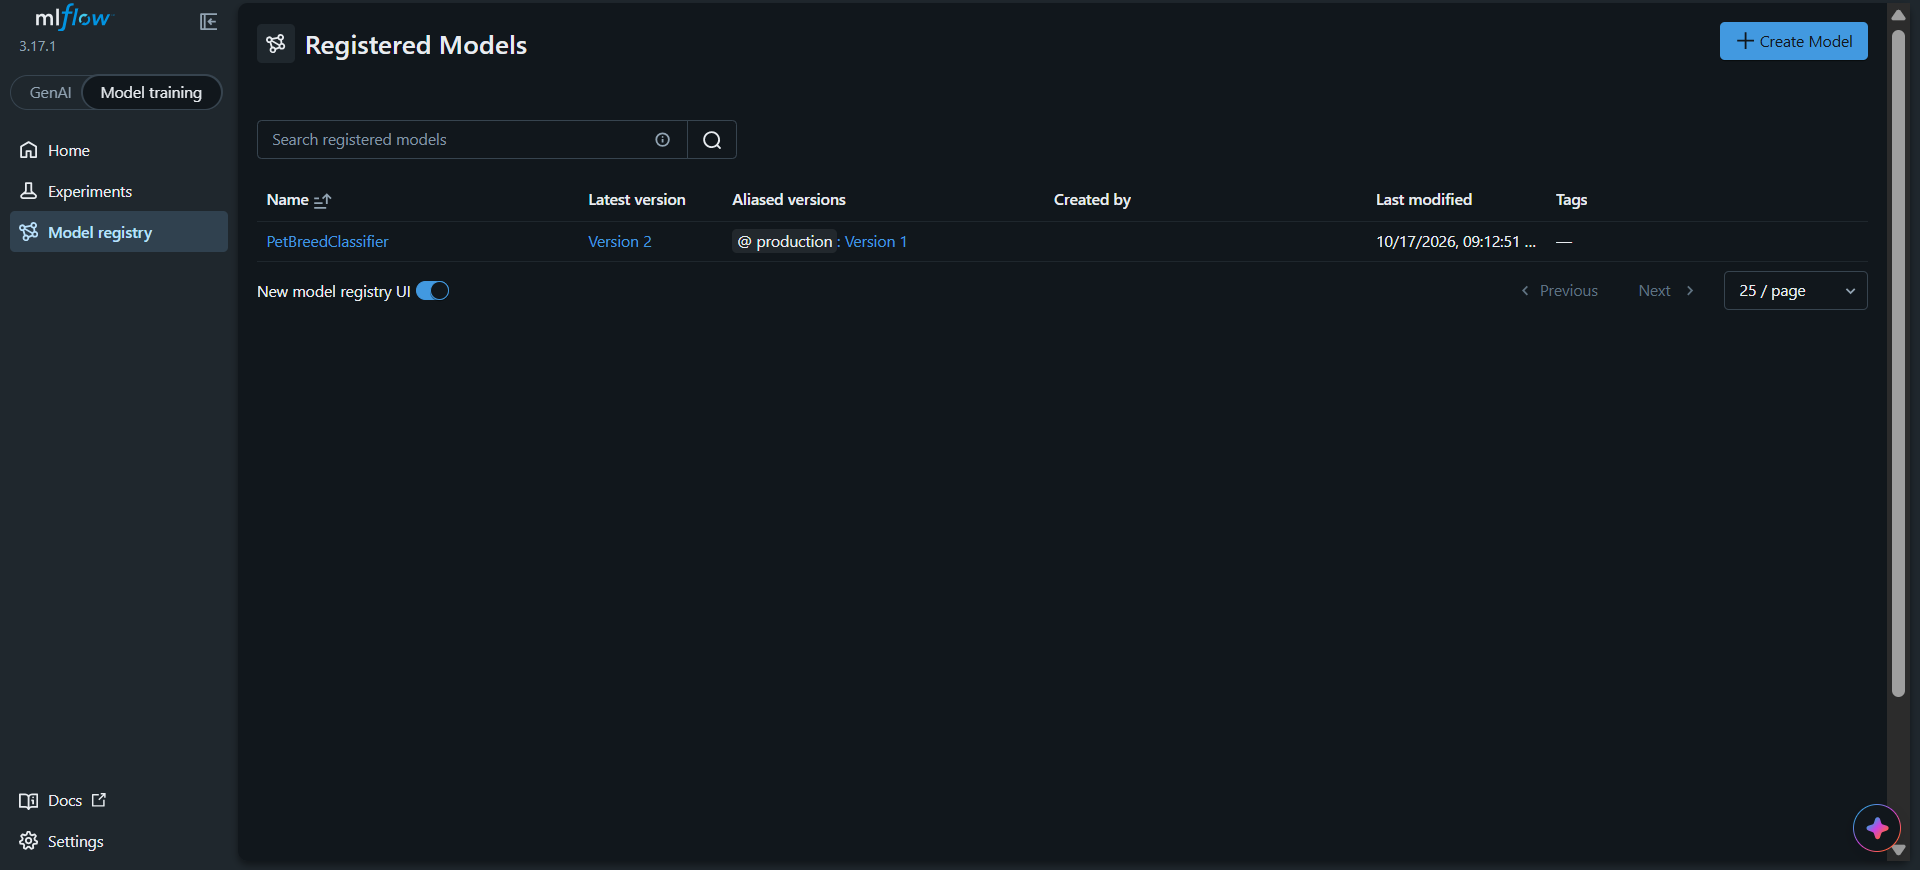
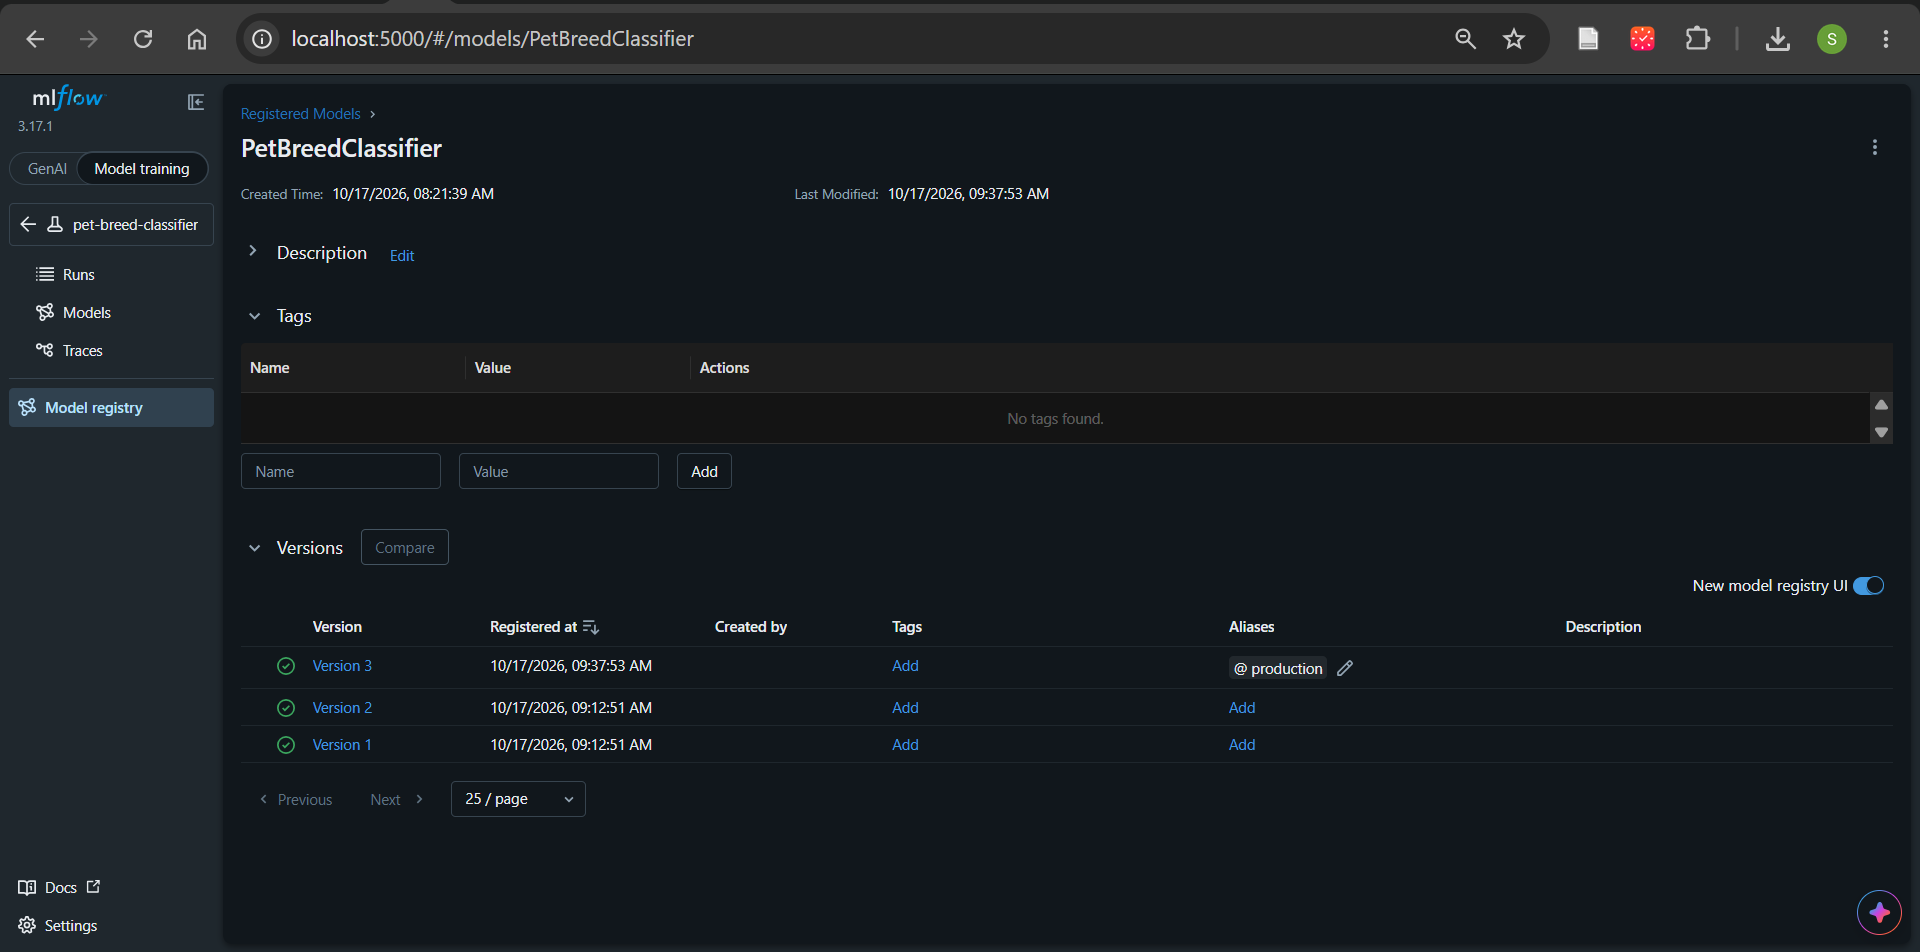
Add model registry: alias-based serving, promote_if_better, MLflow client in the API image

diff --git a/src/prodml/registry.py b/src/prodml/registry.py
@@ -1,0 +1,101 @@
+from __future__ import annotations
+
+import logging
+import sys
+
+import mlflow
+from mlflow.entities.model_registry import ModelVersion
+from mlflow.exceptions import MlflowException
+from mlflow.tracking import MlflowClient
+
+from prodml.config import settings
+
+logger = logging.getLogger(__name__)
+
+MODEL_NAME = "PetBreedClassifier"
+ARTIFACT_PATH = "model.pt"
+ALIAS_STAGING = "staging"
+ALIAS_PRODUCTION = "production"
+
+
+def _client() -> MlflowClient:
+    mlflow.set_tracking_uri(settings.mlflow_tracking_uri)
+    return MlflowClient()
+
+
+def get_version_by_alias(
+    client: MlflowClient, alias: str, name: str = MODEL_NAME
+) -> ModelVersion | None:
+    """Return the model version carrying `alias`, or None if the alias is unset."""
+    try:
+        return client.get_model_version_by_alias(name, alias)
+    except MlflowException:
+        return None
+
+
+def _metric(client: MlflowClient, run_id: str, metric: str) -> float:
+    metrics = client.get_run(run_id).data.metrics
+    if metric not in metrics:
+        raise KeyError(f"Metric '{metric}' not found on run {run_id}")
+    return float(metrics[metric])
+
+
+def promote_if_better(
+    candidate_run_id: str,
+    metric: str = "top1",
+    margin: float = 0.0,
+    alias: str = ALIAS_STAGING,
+    name: str = MODEL_NAME,
+) -> bool:
+    """Register the candidate and give it `alias` if it beats @production.
+
+    Higher is better (top1). The candidate must exceed Production by more than `margin`.
+    Returns True if promoted, False if rejected. Never touches @production.
+    """
+    if alias == ALIAS_PRODUCTION:
+        raise ValueError("Auto-promotion to Production is forbidden: use a human approval.")
+
+    client = _client()
+    candidate_score = _metric(client, candidate_run_id, metric)
+    production = get_version_by_alias(client, ALIAS_PRODUCTION, name)
+
+    if production is not None:
+        production_score = _metric(client, production.run_id, metric)
+        if candidate_score <= production_score + margin:
+            logger.info(
+                "REJECTED run %s: %s=%.4f vs Production v%s=%.4f (margin %.4f)",
+                candidate_run_id,
+                metric,
+                candidate_score,
+                production.version,
+                production_score,
+                margin,
+            )
+            return False
+    else:
+        logger.info("No Production model yet: candidate accepted by default.")
+
+    existing = client.search_model_versions(f"name='{name}' and run_id='{candidate_run_id}'")
+    if existing:
+        version = existing[0].version
+    else:
+        version = mlflow.register_model(f"runs:/{candidate_run_id}/{ARTIFACT_PATH}", name).version
+
+    client.set_registered_model_alias(name, alias, version)
+    logger.info(
+        "PROMOTED run %s -> @%s (v%s, %s=%.4f)",
+        candidate_run_id,
+        alias,
+        version,
+        metric,
+        candidate_score,
+    )
+    return True
+
+
+if __name__ == "__main__":
+    logging.basicConfig(level=logging.INFO)
+    run_id = sys.argv[1]
+    margin = float(sys.argv[2]) if len(sys.argv) > 2 else 0.0
+    promote_if_better(run_id, margin=margin)
+    sys.exit(0)

diff --git a/tests/test_registry.py b/tests/test_registry.py
@@ -1,0 +1,65 @@
+from unittest.mock import MagicMock, patch
+
+import pytest
+from mlflow.exceptions import MlflowException
+
+from prodml import registry
+
+
+def _fake_client(prod_top1: float | None, cand_top1: float) -> MagicMock:
+    client = MagicMock()
+    scores = {"cand": cand_top1, "prod_run": prod_top1}
+    client.get_run.side_effect = lambda rid: MagicMock(
+        data=MagicMock(metrics={"top1": scores[rid]})
+    )
+    prod = MagicMock(version="3", run_id="prod_run")
+
+    def by_alias(name: str, alias: str):
+        if alias == "production" and prod_top1 is not None:
+            return prod
+        raise MlflowException("alias not found")
+
+    client.get_model_version_by_alias.side_effect = by_alias
+    client.search_model_versions.return_value = []
+    return client
+
+
+def test_better_candidate_goes_to_staging():
+    client = _fake_client(prod_top1=0.93, cand_top1=0.95)
+    with (
+        patch.object(registry, "_client", return_value=client),
+        patch("mlflow.register_model", return_value=MagicMock(version="4")),
+    ):
+        assert registry.promote_if_better("cand") is True
+    client.set_registered_model_alias.assert_called_once_with(registry.MODEL_NAME, "staging", "4")
+
+
+def test_worse_candidate_is_rejected_without_registering():
+    client = _fake_client(prod_top1=0.95, cand_top1=0.90)
+    with (
+        patch.object(registry, "_client", return_value=client),
+        patch("mlflow.register_model") as register,
+    ):
+        assert registry.promote_if_better("cand") is False
+    register.assert_not_called()
+    client.set_registered_model_alias.assert_not_called()
+
+
+def test_margin_is_respected():
+    client = _fake_client(prod_top1=0.95, cand_top1=0.955)
+    with patch.object(registry, "_client", return_value=client):
+        assert registry.promote_if_better("cand", margin=0.01) is False
+
+
+def test_first_model_is_accepted_when_no_production():
+    client = _fake_client(prod_top1=None, cand_top1=0.90)
+    with (
+        patch.object(registry, "_client", return_value=client),
+        patch("mlflow.register_model", return_value=MagicMock(version="1")),
+    ):
+        assert registry.promote_if_better("cand") is True
+
+
+def test_auto_promotion_to_production_is_forbidden():
+    with pytest.raises(ValueError):
+        registry.promote_if_better("cand", alias="production")

diff --git a/src/prodml/model_source.py b/src/prodml/model_source.py
@@ -1,0 +1,59 @@
+"""Where the served model comes from: the registry alias, or a local file as fallback."""
+
+from __future__ import annotations
+
+import logging
+import time
+from pathlib import Path
+
+import mlflow
+from mlflow.tracking import MlflowClient
+
+from prodml.config import settings
+from prodml.model import PetClassifier
+
+logger = logging.getLogger(__name__)
+
+
+def load_from_registry(retries: int = 10, delay_s: float = 3.0) -> tuple[PetClassifier, str]:
+    """Load the version carrying `settings.model_alias`. Returns (model, registry_version).
+
+    Retries so the API can start before MLflow is ready. If the registry stays
+    unreachable it raises: silently serving another model is worse than not starting.
+    """
+    mlflow.set_tracking_uri(settings.mlflow_tracking_uri)
+    client = MlflowClient()
+    last_error: Exception | None = None
+    for attempt in range(1, retries + 1):
+        try:
+            version = client.get_model_version_by_alias(settings.model_name, settings.model_alias)
+            dst = Path(settings.model_cache_dir) / f"v{version.version}"
+            dst.mkdir(parents=True, exist_ok=True)
+            local = mlflow.artifacts.download_artifacts(
+                artifact_uri=version.source, dst_path=str(dst)
+            )
+            model = PetClassifier.load(Path(local))
+            logger.info(
+                "model loaded from registry: %s@%s = version %s (run %s)",
+                settings.model_name,
+                settings.model_alias,
+                version.version,
+                version.run_id,
+            )
+            return model, str(version.version)
+        except Exception as exc:
+            last_error = exc
+            logger.warning("registry not ready (attempt %d/%d): %s", attempt, retries, exc)
+            time.sleep(delay_s)
+    raise RuntimeError(
+        f"Could not load {settings.model_name}@{settings.model_alias} from "
+        f"{settings.mlflow_tracking_uri}"
+    ) from last_error
+
+
+def load_model() -> tuple[PetClassifier, str]:
+    """Return (model, model_version) according to USE_REGISTRY."""
+    if settings.use_registry:
+        return load_from_registry()
+    logger.warning("USE_REGISTRY is off: serving the local file %s", settings.model_path)
+    return PetClassifier.load(settings.model_path), settings.model_version

diff --git a/tests/test_model_source.py b/tests/test_model_source.py
@@ -1,0 +1,48 @@
+from unittest.mock import MagicMock, patch
+
+import pytest
+
+from prodml import model_source
+
+
+def test_local_fallback_when_registry_is_off():
+    with (
+        patch.object(model_source.settings, "use_registry", False),
+        patch.object(model_source.PetClassifier, "load", return_value="model"),
+    ):
+        model, version = model_source.load_model()
+    assert model == "model"
+    assert version == model_source.settings.model_version
+
+
+def test_registry_mode_loads_the_version_behind_the_alias(tmp_path):
+    version = MagicMock(version="3", source="runs:/abc/model.pt", run_id="abc")
+    client = MagicMock()
+    client.get_model_version_by_alias.return_value = version
+    with (
+        patch.object(model_source.settings, "use_registry", True),
+        patch.object(model_source.settings, "model_cache_dir", tmp_path),
+        patch.object(model_source, "MlflowClient", return_value=client),
+        patch.object(model_source.mlflow, "set_tracking_uri"),
+        patch.object(
+            model_source.mlflow.artifacts,
+            "download_artifacts",
+            return_value=str(tmp_path / "model.pt"),
+        ),
+        patch.object(model_source.PetClassifier, "load", return_value="model"),
+    ):
+        model, served_version = model_source.load_model()
+    assert model == "model"
+    assert served_version == "3"
+    client.get_model_version_by_alias.assert_called_once_with("PetBreedClassifier", "production")
+
+
+def test_registry_unreachable_raises_instead_of_serving_something_else():
+    client = MagicMock()
+    client.get_model_version_by_alias.side_effect = ConnectionError("down")
+    with (
+        patch.object(model_source, "MlflowClient", return_value=client),
+        patch.object(model_source.mlflow, "set_tracking_uri"),
+    ):
+        with pytest.raises(RuntimeError):
+            model_source.load_from_registry(retries=2, delay_s=0)

diff --git a/src/prodml/api/main.py b/src/prodml/api/main.py
@@ -16,7 +16,7 @@ from PIL import Image, UnidentifiedImageError
 from prodml.api.schemas import HealthResponse, PetBreedResponse
 from prodml.config import settings
 from prodml.logging_conf import correlation_id, setup_logging
-from prodml.model import PetClassifier
+from prodml.model_source import load_model
 from prodml.predict import Predictor
 
 logger = logging.getLogger(__name__)
@@ -25,11 +25,9 @@ logger = logging.getLogger(__name__)
 @asynccontextmanager
 async def lifespan(app: FastAPI) -> AsyncIterator[None]:
     setup_logging()
-    model = PetClassifier.load(settings.model_path)
+    model, model_version = load_model()
     species = json.loads(settings.species_map_path.read_text())
-    app.state.predictor = Predictor(
-        model, species, settings.abstention_threshold, settings.model_version
-    )
+    app.state.predictor = Predictor(model, species, settings.abstention_threshold, model_version)
     logger.info("model loaded: %d classes", len(model.class_names))
     yield
 

diff --git a/src/prodml/config.py b/src/prodml/config.py
@@ -24,6 +24,10 @@ class Settings(BaseSettings):
     max_upload_bytes: int = 5 * 1024 * 1024
     abstention_threshold: float = params["calibration"]["abstention_threshold"]
     mlflow_tracking_uri: str = "http://localhost:5000"
+    use_registry: bool = False
+    model_name: str = "PetBreedClassifier"
+    model_alias: str = "production"
+    model_cache_dir: Path = Path("/tmp/prodml-model")
 
 
 settings = Settings()

diff --git a/reports/module-2.md b/reports/module-2.md
@@ -47,4 +47,6 @@ Each backbone got the same random search: 10 nested trials, same seed (so the sa
 
 The ranking is the same before and after tuning (ResNet-50 > ResNet-18 > MobileNet). Both ResNets picked the same configuration. Tuning adds about one point of top-1, which is at the edge of what 736 validation images can resolve (standard error around 0.8 point), so the sweep did not find a clearly better setup than the defaults. In the ResNet-50 parallel-coordinates plot the best runs tend to be trained for 10 or 20 epochs and the worst for 5, but `lr`, `batch_size`, `weight_decay` and `epochs` all vary together, so the effect of the epoch count alone cannot be isolated. The tuned ResNet-50 has a slightly higher ECE than its base run (0.0223 vs 0.0185): accuracy went up, calibration did not.
 
-All figures are validation figures: the same 736 images
+All figures are validation figures. The same 736 images are used to fit the
+temperature, to select the best sweep trial and to report the metrics, so the
+numbers are slightly optimistic. The test split stays untouched until Session 4.
